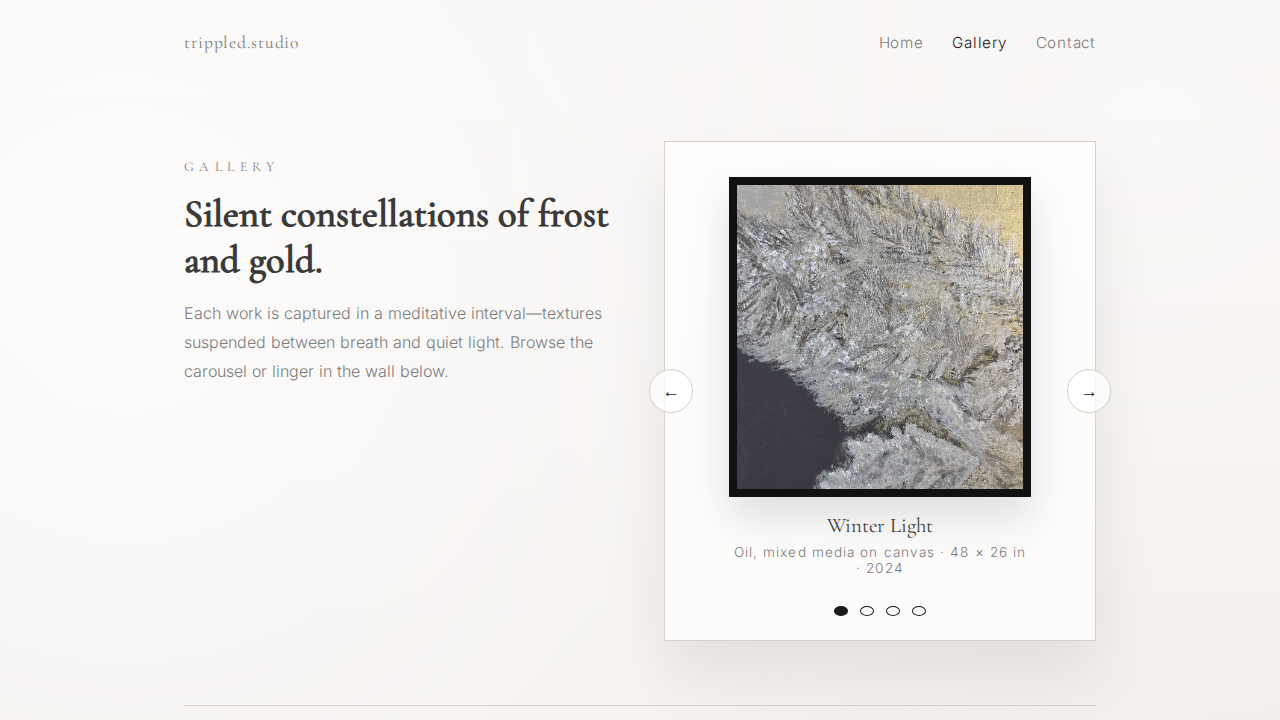
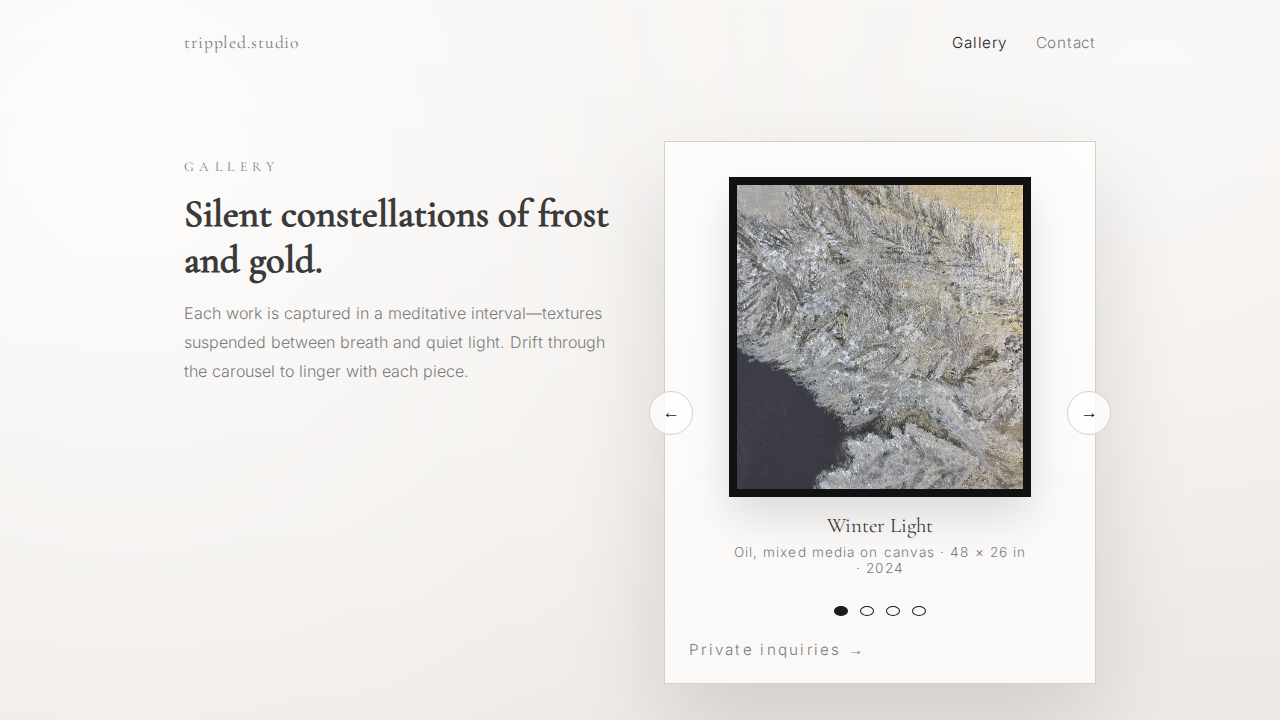
Streamline site around gallery

diff --git a/index.html b/index.html
@@ -2,64 +2,18 @@
 <html lang="en">
 <head>
   <meta charset="UTF-8" />
-  <meta name="viewport" content="width=device-width, initial-scale=1.0" />
-  <title>trippled.studio — Home</title>
-  <link rel="preconnect" href="https://fonts.googleapis.com" />
-  <link rel="preconnect" href="https://fonts.gstatic.com" crossorigin />
-  <link href="https://fonts.googleapis.com/css2?family=Cormorant+Garamond:wght@400;500&family=Inter:wght@300;400&display=swap" rel="stylesheet" />
-  <link rel="stylesheet" href="styles.css" />
+  <meta http-equiv="refresh" content="0; url=gallery.html" />
+  <title>trippled.studio</title>
+  <link rel="canonical" href="gallery.html" />
+  <style>
+    body { font-family: 'Inter', sans-serif; background: #f3f0ed; color: #3a3a3a; display: flex; align-items: center; justify-content: center; height: 100vh; margin: 0; }
+    .notice { text-align: center; letter-spacing: 0.08em; }
+    a { color: inherit; }
+  </style>
 </head>
 <body>
-  <div class="page">
-    <header class="site-header">
-      <div class="brand">trippled.studio</div>
-      <nav>
-        <a href="index.html" class="active">Home</a>
-        <a href="gallery.html">Gallery</a>
-        <a href="contact.html">Contact</a>
-      </nav>
-    </header>
-
-    <main>
-      <section class="hero">
-        <div class="hero-text">
-          <p>Form dissolves into silence.<br />
-             Texture becomes memory.<br />
-             Each piece holds what cannot be spoken.</p>
-          <div class="hero-actions">
-            <a class="ghost-link" href="gallery.html">Enter Gallery →</a>
-            <a class="ghost-link" href="contact.html">Private inquiries →</a>
-          </div>
-        </div>
-        <div class="hero-frame">
-          <div class="artwork"></div>
-        </div>
-      </section>
-
-      <section class="about">
-        <div class="about-text">
-          <h2>About</h2>
-          <p>Art as a sanctuary for the unspoken.<br />
-             Each work draws from the silent language of stone,<br />
-             frost, and fading light.<br />
-             A meditation on the unseen, the felt but not grasped…<br />
-             A space to breathe, to feel, to remember.</p>
-        </div>
-        <div class="about-link">
-          <a class="ghost-link" href="contact.html">Private inquiries →</a>
-        </div>
-      </section>
-    </main>
-
-    <footer class="footer-nav">
-      <span class="copyright">© 2026 Rasa. All rights reserved.</span>
-      <span>inquiries@trippled.studio</span>
-      <nav>
-        <a href="index.html" class="active">Home</a>
-        <a href="gallery.html">Gallery</a>
-        <a href="contact.html">Contact</a>
-      </nav>
-    </footer>
+  <div class="notice">
+    Redirecting to the gallery… If it doesn’t load automatically, <a href="gallery.html">click here</a>.
   </div>
 </body>
 </html>

diff --git a/gallery.html b/gallery.html
@@ -14,7 +14,6 @@
     <header class="site-header">
       <div class="brand">trippled.studio</div>
       <nav>
-        <a href="index.html">Home</a>
         <a href="gallery.html" class="active">Gallery</a>
         <a href="contact.html">Contact</a>
       </nav>
@@ -25,7 +24,7 @@
         <div class="gallery-copy">
           <p class="tagline">Gallery</p>
           <h1>Silent constellations of frost and gold.</h1>
-          <p>Each work is captured in a meditative interval—textures suspended between breath and quiet light. Browse the carousel or linger in the wall below.</p>
+          <p>Each work is captured in a meditative interval—textures suspended between breath and quiet light. Drift through the carousel to linger with each piece.</p>
         </div>
         <div class="carousel" role="region" aria-label="Artwork carousel">
           <button class="carousel-control prev" aria-label="Previous artwork">←</button>
@@ -66,32 +65,17 @@
             <button class="dot" data-index="2" aria-label="Show Veiled Branches"></button>
             <button class="dot" data-index="3" aria-label="Show Celestial Drift"></button>
           </div>
+          <a class="ghost-link carousel-inquiry" href="contact.html">Private inquiries →</a>
         </div>
       </section>
 
-      <section class="gallery-wall">
-        <div class="wall-caption">
-          <h2>Wall</h2>
-          <p>Install-ready arrangements echo the original mockup. Hover to let each piece breathe.</p>
-        </div>
-        <div class="wall-grid">
-          <div class="wall-piece" style="background-image:url('assets/art-2-clean.jpg')"></div>
-          <div class="wall-piece" style="background-image:url('assets/art-3-clean.jpg')"></div>
-          <div class="wall-piece focus" style="background-image:url('assets/art-1-clean.jpg')">
-            <span>Winter Light</span>
-          </div>
-          <div class="wall-piece" style="background-image:url('assets/art-4-clean.jpg')"></div>
-          <div class="wall-piece" style="background-image:url('assets/art-2-clean.jpg')"></div>
-          <div class="wall-piece" style="background-image:url('assets/art-3-clean.jpg')"></div>
-        </div>
-      </section>
+
     </main>
 
     <footer class="footer-nav">
       <span class="copyright">© 2026 Rasa. All rights reserved.</span>
       <span>trippled.studio</span>
       <nav>
-        <a href="index.html">Home</a>
         <a href="gallery.html" class="active">Gallery</a>
         <a href="contact.html">Contact</a>
       </nav>

diff --git a/styles.css b/styles.css
@@ -155,7 +155,7 @@ nav a.active {
   position: relative;
   background: rgba(255,255,255,0.7);
   border: 1px solid var(--border);
-  box-shadow: 0 30px 60px rgba(0,0,0,0.08);
+  box-shadow: 0 40px 90px rgba(0,0,0,0.12);
   padding: 24px;
 }
 
@@ -225,6 +225,12 @@ nav a.active {
 .carousel-control.prev { left: -16px; }
 .carousel-control.next { right: -16px; }
 
+.carousel-inquiry {
+  margin-top: 24px;
+  display: inline-block;
+  letter-spacing: 0.15em;
+}
+
 .carousel-dots {
   display: flex;
   justify-content: center;
@@ -244,55 +250,6 @@ nav a.active {
   background: var(--accent);
 }
 
-.gallery-wall {
-  padding: 64px 0 32px;
-}
-
-.wall-caption h2 {
-  font-family: 'Cormorant Garamond', serif;
-  letter-spacing: 0.3em;
-  font-size: 1.2rem;
-  text-transform: uppercase;
-  margin-bottom: 8px;
-}
-
-.wall-caption p {
-  margin-top: 0;
-  color: var(--muted);
-}
-
-.wall-grid {
-  margin-top: 32px;
-  display: grid;
-  grid-template-columns: repeat(auto-fit, minmax(160px, 1fr));
-  gap: 16px;
-}
-
-.wall-piece {
-  padding-bottom: 120%;
-  background-size: cover;
-  background-position: center;
-  border: 2px solid rgba(0,0,0,0.05);
-  position: relative;
-  transition: transform 0.3s ease, box-shadow 0.3s ease;
-}
-
-.wall-piece:hover {
-  transform: translateY(-6px);
-  box-shadow: 0 20px 30px rgba(0,0,0,0.08);
-}
-
-.wall-piece.focus {
-  border: 6px solid #131313;
-}
-
-.wall-piece.focus span {
-  position: absolute;
-  bottom: 12px;
-  right: 12px;
-  color: white;
-  letter-spacing: 0.1em;
-}
 
 .detail {
   padding: 64px 0 32px;

diff --git a/contact.html b/contact.html
@@ -14,7 +14,6 @@
     <header class="site-header">
       <div class="brand">trippled.studio</div>
       <nav>
-        <a href="index.html">Home</a>
         <a href="gallery.html">Gallery</a>
         <a href="contact.html" class="active">Contact</a>
       </nav>
@@ -45,7 +44,6 @@
       <span class="copyright">© 2026 Rasa. All rights reserved.</span>
       <span>inquiries@trippled.studio</span>
       <nav>
-        <a href="index.html">Home</a>
         <a href="gallery.html">Gallery</a>
         <a href="contact.html" class="active">Contact</a>
       </nav>

diff --git a/README.md b/README.md
@@ -14,10 +14,10 @@ python3 -m http.server 8000
 # visit http://127.0.0.1:8000
 ```
 
-Alternatively, open `index.html`, `gallery.html`, or `contact.html` directly in a browser.
+Alternatively, open `gallery.html` or `contact.html` directly in a browser. (`index.html` simply redirects to `gallery.html`.)
 
 ## Development Notes
-- Three static pages: `index.html` (Home), `gallery.html`, `contact.html`.
+- Entry point: `gallery.html` (main experience) + `contact.html`. `index.html` is a lightweight redirect for hosts that require it.
 - Shared styles live in `styles.css`; no build pipeline. `gallery.js` powers the carousel interactions.
 - Local artwork lives in `assets/` (cropped + balanced JPEGs).
 - Optional helper script `process-images.js` (Node + Jimp) crops/normalizes any new artwork. Run `npm install` once, then `node process-images.js` after dropping new files into `assets/`.
